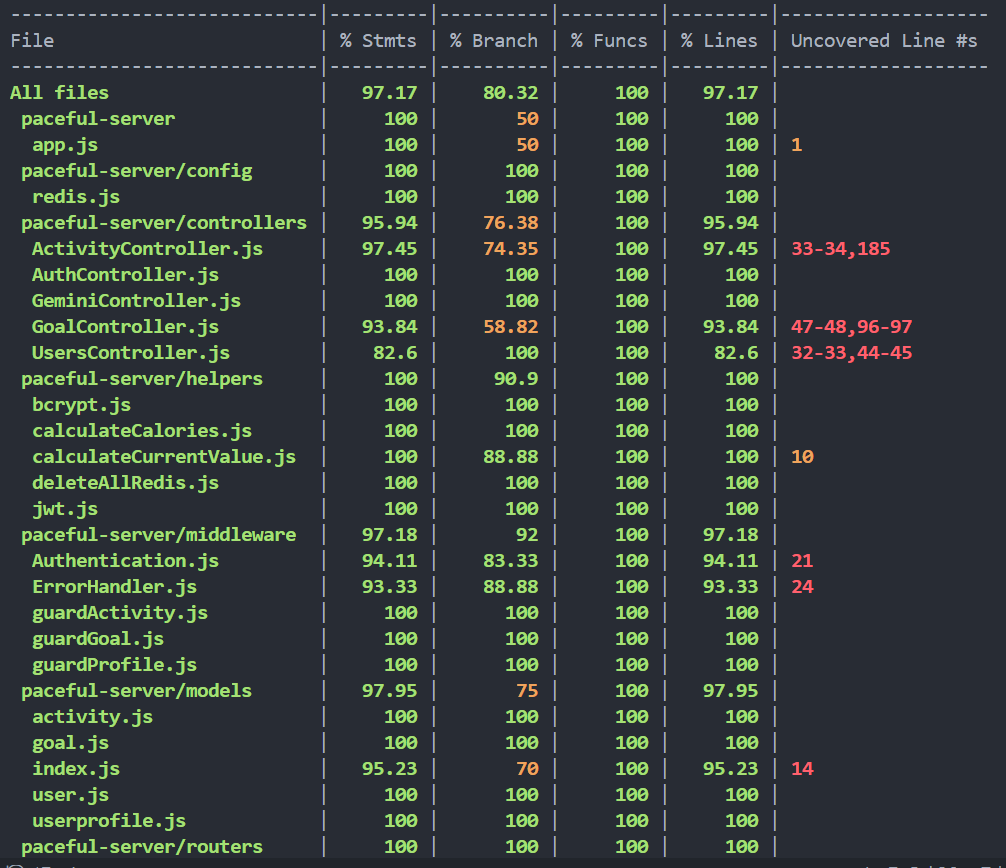
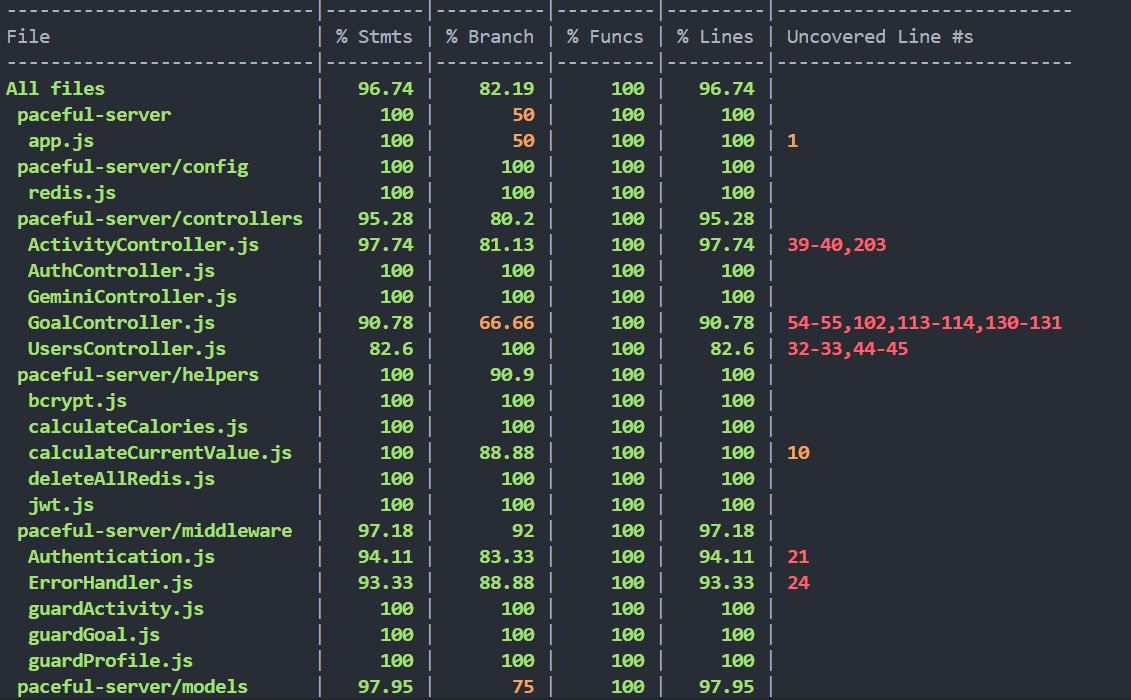
chore: update findAll goals and activities api response

Changed region(s): [[0.2465, 0.0, 0.9861, 0.99], [0.0, 0.0, 0.3082, 1.0], [0.1541, 0.0, 0.2157, 0.03]]

diff --git a/__test__/activityController.test.js b/__test__/activityController.test.js
@@ -6,7 +6,7 @@ const ActivityController = require('../controllers/ActivityController');
 jest.mock('../helpers/calculateCalories');
 jest.mock('../models/', () => ({
   Activity: {
-    findAll: jest.fn(),
+    findAndCountAll: jest.fn(),
     create: jest.fn(),
   },
   Goal: {
@@ -31,6 +31,7 @@ describe('ActivityController', () => {
   beforeEach(() => {
     req = {
       user: { id: 1 },
+      query: { page: '1', limit: '5' },
       body: { typeName: 'running', duration: 30, distance: 5, notes: 'Morning run', activityDate: '2024-01-01' },
       activity: {
         id: 1,
@@ -58,29 +59,26 @@ describe('ActivityController', () => {
   });
 
   describe('findAll', () => {
-    beforeEach(() => {
-      req.query = { page: '1', limit: '5' };
-    });
-    it('should return activities from Redis if available', async () => {
-      const cachedActivities = JSON.stringify([{ id: 1, typeName: 'running' }]);
-      redis.get.mockResolvedValue(cachedActivities);
+    it('should return cached activities if available', async () => {
+      const cachedData = JSON.stringify({ totaldata: 10, totalPage: 2, currPage: 1, activities: [{ id: 1, typeName: 'running' }] });
+      redis.get.mockResolvedValue(cachedData);
       await ActivityController.findAll(req, res, next);
       expect(redis.get).toHaveBeenCalledWith('activities:1:page:1:limit:5');
-      expect(res.json).toHaveBeenCalledWith(JSON.parse(cachedActivities));
+      expect(res.json).toHaveBeenCalledWith(JSON.parse(cachedData));
     });
 
     it('should fetch activities from the database if not in Redis', async () => {
       redis.get.mockResolvedValue(null);
-      Activity.findAll.mockResolvedValue([{ id: 1, typeName: 'running' }]);
+      Activity.findAndCountAll.mockResolvedValue({ count: 10, rows: [{ id: 1, typeName: 'running' }] });
       await ActivityController.findAll(req, res, next);
-      expect(Activity.findAll).toHaveBeenCalledWith({ where: { UserId: 1 }, limit: 5, offset: 0, order: [['updatedAt', 'DESC']] });
-      expect(redis.set).toHaveBeenCalledWith('activities:1:page:1:limit:5', JSON.stringify([{ id: 1, typeName: 'running' }]));
-      expect(res.json).toHaveBeenCalledWith([{ id: 1, typeName: 'running' }]);
+      expect(Activity.findAndCountAll).toHaveBeenCalledWith({ where: { UserId: 1 }, limit: 5, offset: 0, order: [['updatedAt', 'DESC']] });
+      expect(redis.set).toHaveBeenCalledWith('activities:1:page:1:limit:5', JSON.stringify({ totalActivity: 10, totalPage: 2, currPage: 1, activities: [{ id: 1, typeName: 'running' }] }));
+      expect(res.json).toHaveBeenCalledWith({ totalActivity: 10, totalPage: 2, currPage: 1, activities: [{ id: 1, typeName: 'running' }] });
     });
 
     it('should handle errors gracefully', async () => {
       const error = new Error('Database error');
-      Activity.findAll.mockRejectedValue(error);
+      redis.get.mockRejectedValue(error);
       await ActivityController.findAll(req, res, next);
       expect(next).toHaveBeenCalledWith(error);
     });

diff --git a/__test__/goalController.test.js b/__test__/goalController.test.js
@@ -6,6 +6,7 @@ const GoalController = require('../controllers/GoalController');
 jest.mock('../helpers/calculateCurrentValue');
 jest.mock('../models/', () => ({
   Goal: {
+    findAndCountAll: jest.fn(),
     findAll: jest.fn(),
     create: jest.fn(),
   },
@@ -27,6 +28,7 @@ describe('GoalController', () => {
   beforeEach(() => {
     req = {
       user: { id: 1 },
+      query: { page: '1', limit: '5' },
       body: { typeName: 'steps', targetValue: 10000, startDate: '2024-01-01', endDate: '2024-12-31' },
       goal: {
         id: 1,
@@ -52,29 +54,26 @@ describe('GoalController', () => {
   });
 
   describe('findAll', () => {
-    beforeEach(() => {
-      req.query = { page: '1', limit: '5' };
-    });
     it('should return goals from Redis if available', async () => {
-      const cachedActivities = JSON.stringify([{ id: 1, typeName: 'steps' }]);
-      redis.get.mockResolvedValue(cachedActivities);
+      const cachedGoals = JSON.stringify({ totaldata: 10, totalPage: 2, currPage: 1, goals: [{ id: 1, typeName: 'steps' }] });
+      redis.get.mockResolvedValue(cachedGoals);
       await GoalController.findAll(req, res, next);
       expect(redis.get).toHaveBeenCalledWith('goals:1:page:1:limit:5');
-      expect(res.json).toHaveBeenCalledWith([{ id: 1, typeName: 'steps' }]);
+      expect(res.json).toHaveBeenCalledWith(JSON.parse(cachedGoals));
     });
 
     it('should fetch goals from the database if not in Redis', async () => {
       redis.get.mockResolvedValue(null);
-      Goal.findAll.mockResolvedValue([{ id: 1, typeName: 'steps' }]);
+      Goal.findAndCountAll.mockResolvedValue({ count: 10, rows: [{ id: 1, typeName: 'steps' }] });
       await GoalController.findAll(req, res, next);
-      expect(Goal.findAll).toHaveBeenCalledWith({ where: { UserId: 1 }, limit: 5, offset: 0, order: [['updatedAt', 'DESC']] });
-      expect(redis.set).toHaveBeenCalledWith('goals:1:page:1:limit:5', JSON.stringify([{ id: 1, typeName: 'steps' }]));
-      expect(res.json).toHaveBeenCalledWith([{ id: 1, typeName: 'steps' }]);
+      expect(Goal.findAndCountAll).toHaveBeenCalledWith({ where: { UserId: 1 }, limit: 5, offset: 0, order: [['updatedAt', 'DESC']] });
+      expect(redis.set).toHaveBeenCalledWith('goals:1:page:1:limit:5', JSON.stringify({ totalGoal: 10, totalPage: 2, currPage: 1, goals: [{ id: 1, typeName: 'steps' }] }));
+      expect(res.json).toHaveBeenCalledWith({ totalGoal: 10, totalPage: 2, currPage: 1, goals: [{ id: 1, typeName: 'steps' }] });
     });
 
     it('should handle errors gracefully', async () => {
       const error = new Error('Database error');
-      Goal.findAll.mockRejectedValue(error);
+      Goal.findAndCountAll.mockRejectedValue(error);
       await GoalController.findAll(req, res, next);
       expect(next).toHaveBeenCalledWith(error);
     });

diff --git a/controllers/ActivityController.js b/controllers/ActivityController.js
@@ -10,12 +10,13 @@ class ActivityController {
       const limit = 5;
       const offset = (page - 1) * limit;
 
-      const result = await redis.get(`activities:${req.user.id}:page:${page}:limit:${limit}`);
+      const cacheKey = `activities:${req.user.id}:page:${page}:limit:${limit}`;
+      const result = await redis.get(cacheKey);
       if (result) {
         return res.json(JSON.parse(result));
       }
 
-      const activities = await Activity.findAll({
+      const { count, rows } = await Activity.findAndCountAll({
         where: {
           UserId: req.user.id,
         },
@@ -23,8 +24,9 @@ class ActivityController {
         offset: offset,
         order: [['updatedAt', 'DESC']],
       });
-      await redis.set(`activities:${req.user.id}:page:${page}:limit:${limit}`, JSON.stringify(activities));
-      res.json(activities);
+      const totalPage = Math.ceil(count / limit);
+      await redis.set(cacheKey, JSON.stringify({ totalActivity: count, totalPage, currPage: page, activities: rows }));
+      res.json({ totalActivity: count, totalPage, currPage: page, activities: rows });
     } catch (error) {
       console.log(error);
       next(error);

diff --git a/controllers/GoalController.js b/controllers/GoalController.js
@@ -9,13 +9,13 @@ class GoalController {
       const page = Number(req.query.page) || 1;
       const limit = 5;
       const offset = (page - 1) * limit;
-
-      const result = await redis.get(`goals:${req.user.id}:page:${page}:limit:${limit}`);
+      const cacheKey = `goals:${req.user.id}:page:${page}:limit:${limit}`;
+      const result = await redis.get(cacheKey);
       if (result) {
         return res.json(JSON.parse(result));
       }
 
-      const goals = await Goal.findAll({
+      const { count, rows } = await Goal.findAndCountAll({
         where: {
           UserId: req.user.id,
         },
@@ -23,8 +23,9 @@ class GoalController {
         offset: offset,
         order: [['updatedAt', 'DESC']],
       });
-      await redis.set(`goals:${req.user.id}:page:${page}:limit:${limit}`, JSON.stringify(goals));
-      res.json(goals);
+      const totalPage = Math.ceil(count / limit);
+      await redis.set(cacheKey, JSON.stringify({ totalGoal: count, totalPage, currPage: page, goals: rows }));
+      res.json({ totalGoal: count, totalPage, currPage: page, goals: rows });
     } catch (error) {
       console.log(error);
       next(error);

diff --git a/__test__/activities.test.js b/__test__/activities.test.js
@@ -153,8 +153,8 @@ describe('GET /activities', () => {
         const { body, status } = response;
 
         expect(status).toBe(200);
-        expect(Array.isArray(body)).toBeTruthy();
-        expect(body.length).toBeGreaterThan(0);
+        expect(Array.isArray(body.activities)).toBeTruthy();
+        expect(body.activities.length).toBeGreaterThan(0);
         done();
       })
       .catch((err) => {

diff --git a/__test__/goals.test.js b/__test__/goals.test.js
@@ -134,8 +134,8 @@ describe('GET /goals', () => {
         const { body, status } = response;
 
         expect(status).toBe(200);
-        expect(Array.isArray(body)).toBeTruthy();
-        expect(body.length).toBeGreaterThan(0);
+        expect(Array.isArray(body.goals)).toBeTruthy();
+        expect(body.goals.length).toBeGreaterThan(0);
         done();
       })
       .catch((err) => {
